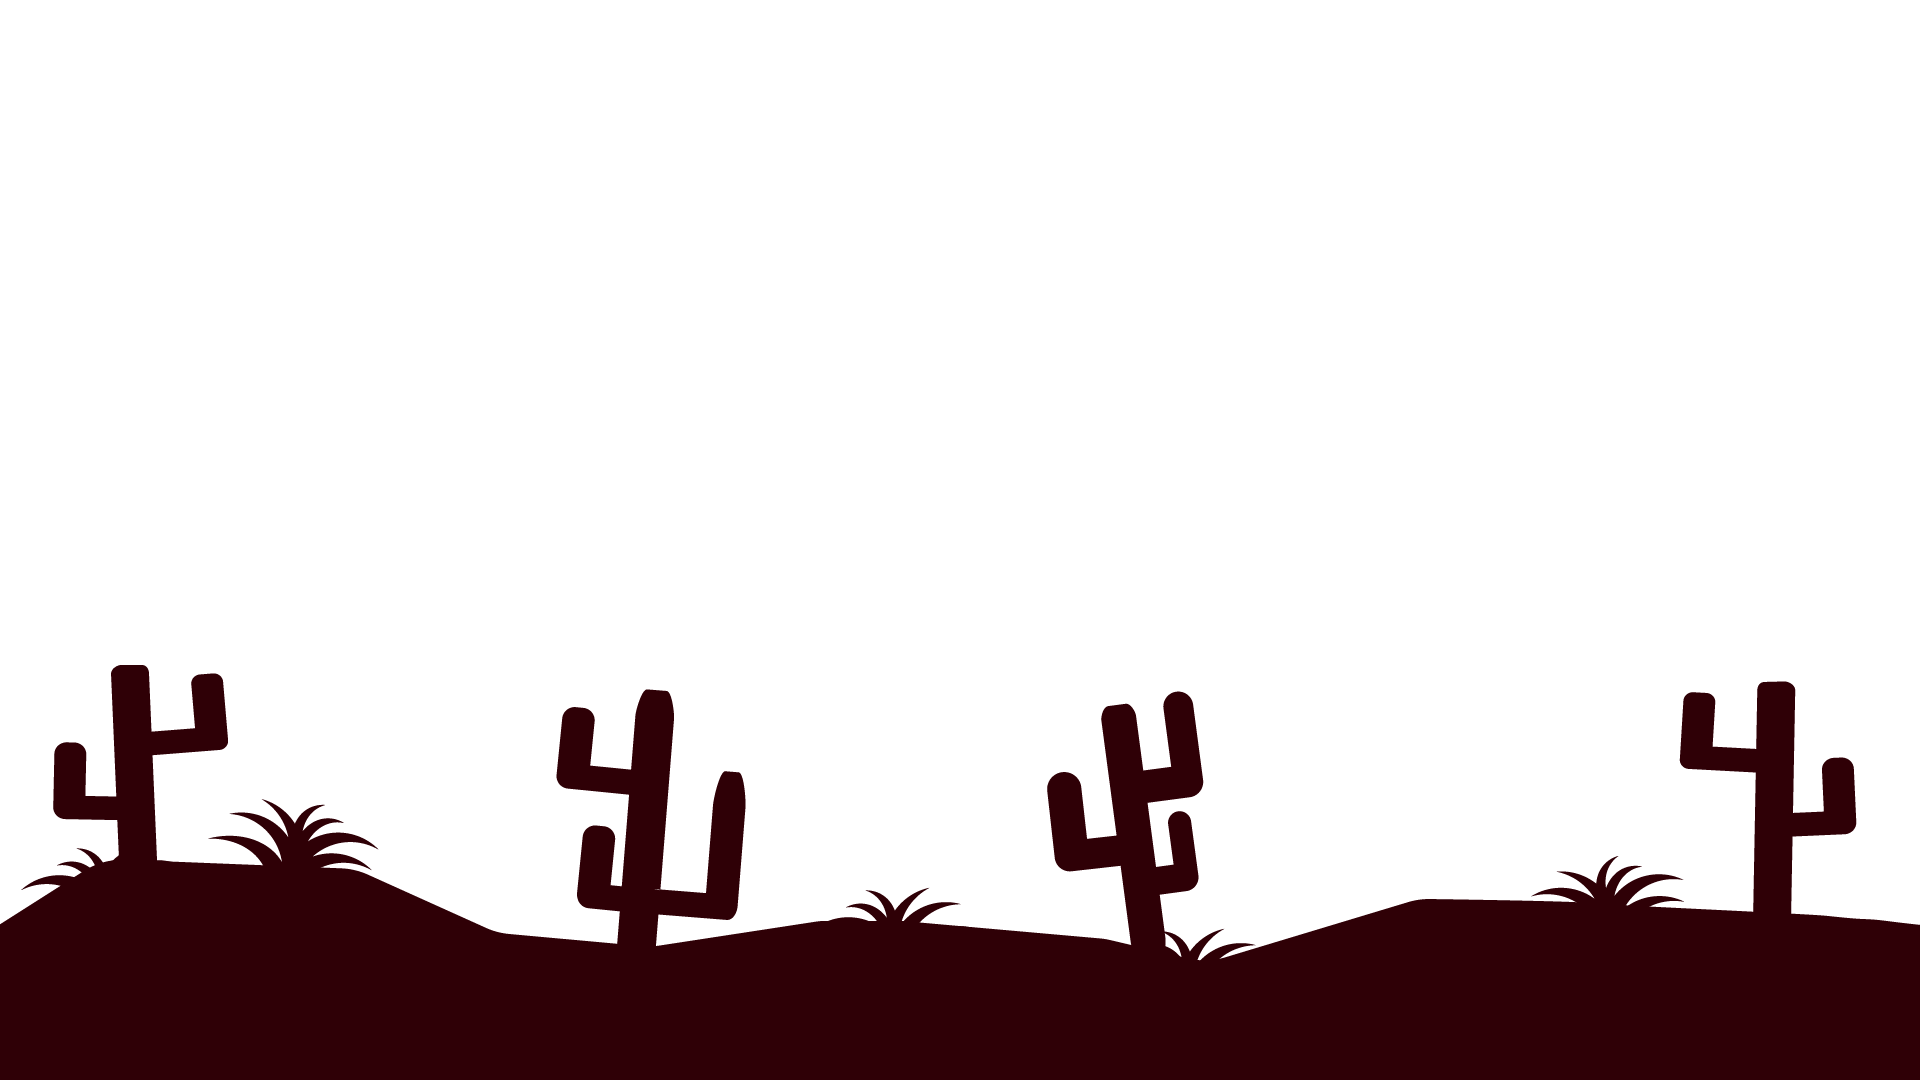
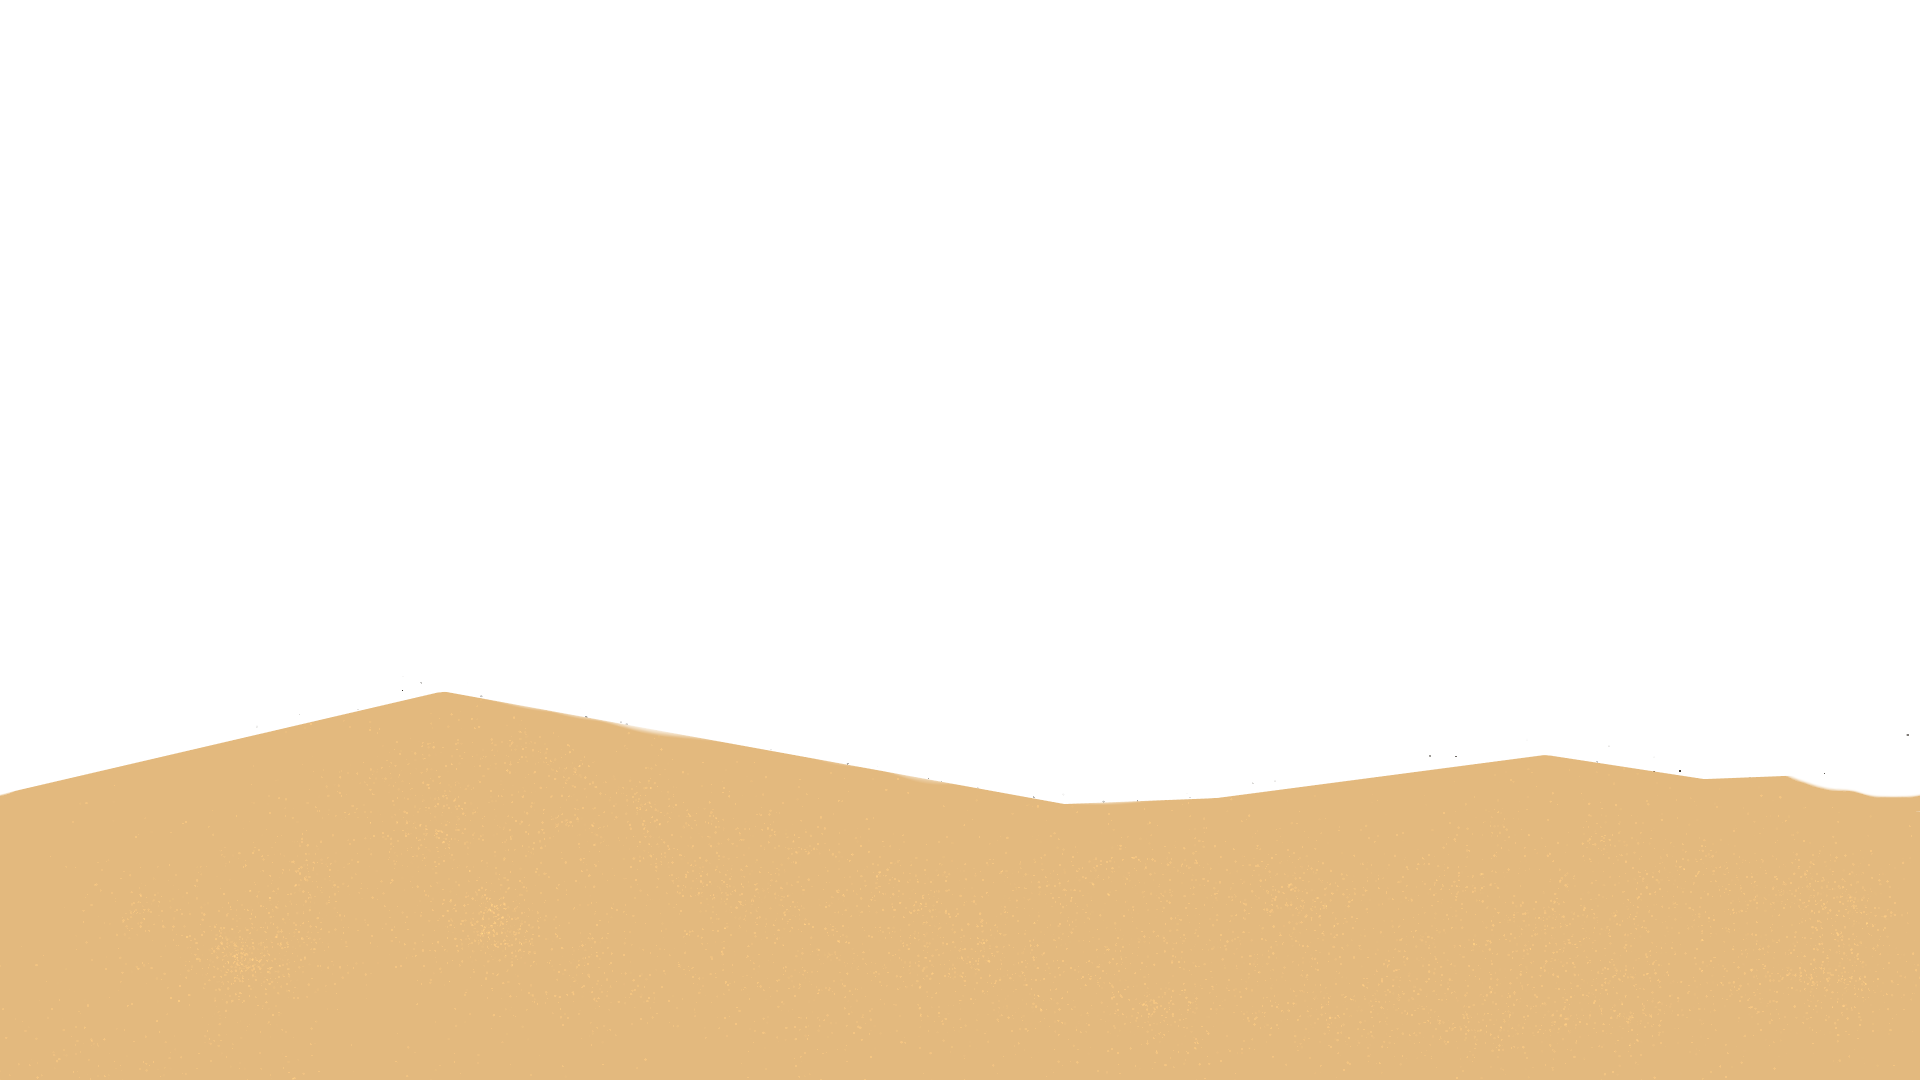
Add a layer 1 sand-colored foreground. Add a cow skull to layer 2.

diff --git a/src/systems/camera.rs b/src/systems/camera.rs
@@ -111,16 +111,16 @@ pub fn initialize_camera_system(
                 z: -2.0,
                 ..default()
             },
-            // LayerData {
-            //     speed: LayerSpeed::Horizontal(0.2),
-            //     path: "1 Layer1.png".to_string(),
-            //     tile_size: UVec2::new(1920, 1080),
-            //     cols: 1,
-            //     rows: 1,
-            //     scale: Vec2::splat(1.0),
-            //     z: -1.0,
-            //     ..default()
-            // },
+            LayerData {
+                speed: LayerSpeed::Horizontal(0.2),
+                path: "1 Layer1.png".to_string(),
+                tile_size: UVec2::new(1920, 1080),
+                cols: 1,
+                rows: 1,
+                scale: Vec2::splat(1.0),
+                z: -1.0,
+                ..default()
+            },
         ],
         camera: camera,
     };

diff --git a/src/systems/game/setup.rs b/src/systems/game/setup.rs
@@ -31,7 +31,7 @@ pub fn setup(mut commands: Commands, asset_server: Res<AssetServer>, mut texture
         Health(INITIAL_HEALTH),
         OriginalSize(PLAYER_SIZE),
         animation_indices,
-        AnimationTimer(Timer::from_seconds(0.1, TimerMode::Repeating)),
+        AnimationTimer(Timer::from_seconds(0.05, TimerMode::Repeating)),
 
     ));
 
